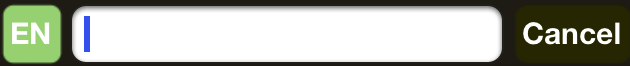
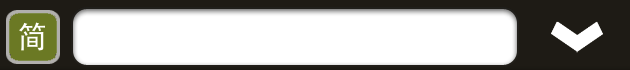
1.1 界面修改， 图标修改，按钮修改

Changed region(s): [[0.0, 0.0606, 0.9952, 0.9697]]

diff --git a/Wikish/View/WikiSearchPanel.m b/Wikish/View/WikiSearchPanel.m
@@ -209,11 +209,11 @@ NSString *const kNotificationMessageSearchKeyword = @"kNotificationMessageSearch
 //    self.langBtn.layer.rasterizationScale = [UIScreen mainScreen].scale;
 //    self.langBtn.layer.shouldRasterize = YES;
     
-    UIImage *noramlImage = [[UIImage imageNamed:@"square-normal.png"] stretchableImageWithLeftCapWidth:24 topCapHeight:24];
-    UIImage *highlightImage = [[UIImage imageNamed:@"square-highlight.png"] stretchableImageWithLeftCapWidth:24 topCapHeight:24];
-    [self.cancelBtn setBackgroundImage:noramlImage forState:UIControlStateNormal];
-    [self.cancelBtn setBackgroundImage:highlightImage forState:UIControlStateHighlighted];
-    [self.cancelBtn setTitle:NSLocalizedString(@"Cancel", nil) forState:UIControlStateNormal];
+//    UIImage *noramlImage = [[UIImage imageNamed:@"square-normal.png"] stretchableImageWithLeftCapWidth:24 topCapHeight:24];
+//    UIImage *highlightImage = [[UIImage imageNamed:@"square-highlight.png"] stretchableImageWithLeftCapWidth:24 topCapHeight:24];
+//    [self.cancelBtn setBackgroundImage:noramlImage forState:UIControlStateNormal];
+//    [self.cancelBtn setBackgroundImage:highlightImage forState:UIControlStateHighlighted];
+//    [self.cancelBtn setTitle:NSLocalizedString(@"Cancel", nil) forState:UIControlStateNormal];
     
 }
 

diff --git a/Wikish/Controller/SettingViewController.m b/Wikish/Controller/SettingViewController.m
@@ -139,6 +139,9 @@
         cell.backgroundView = [UIView new];
         cell.backgroundView.backgroundColor = GetTableCellBackgroundColor();
         cell.textLabel.font = [UIFont systemFontOfSize:17.0f];
+        
+        cell.selectedBackgroundView = [UIView new];
+        cell.selectedBackgroundView.backgroundColor = GetTableHighlightRowColor();
     }
     cell.contentView.backgroundColor = GetTableBackgourndColor();
     cell.textLabel.backgroundColor = [UIColor clearColor];
@@ -184,6 +187,13 @@
         [_commonSitesTable reloadRowsAtIndexPaths:@[[NSIndexPath indexPathForRow:defaultIndex inSection:indexPath.section], indexPath] withRowAnimation:UITableViewRowAnimationNone];
         [_commonSitesTable endUpdates];
         
+    } else if (tableView == _sitesTable) {
+        [tableView deselectRowAtIndexPath:indexPath animated:NO];
+        WikiSite *site = [_siteManager.supportedSites objectAtIndex:indexPath.row];
+        [_siteManager addCommonSite:site];
+        [_siteManager setDefaultSite:site];
+        
+        [_commonSitesTable reloadData];
     }
 }
 

diff --git a/Wikish/Controller/HelpController.m b/Wikish/Controller/HelpController.m
@@ -25,7 +25,7 @@
         CGFloat scrollerHeight = CGRectGetHeight(self.scroller.bounds);
         
         self.scroller.contentSize = CGSizeMake(scrollerWidth * 3, scrollerHeight);
-        self.page1.bounds = CGRectMake(0, 0, scrollerWidth, scrollerHeight);
+        self.page1.frame = CGRectMake(0, 0, scrollerWidth, scrollerHeight);
         
         self.page2.frame = CGRectMake(scrollerWidth, 0, scrollerWidth, scrollerHeight);
         [self.scroller addSubview:self.page2];
